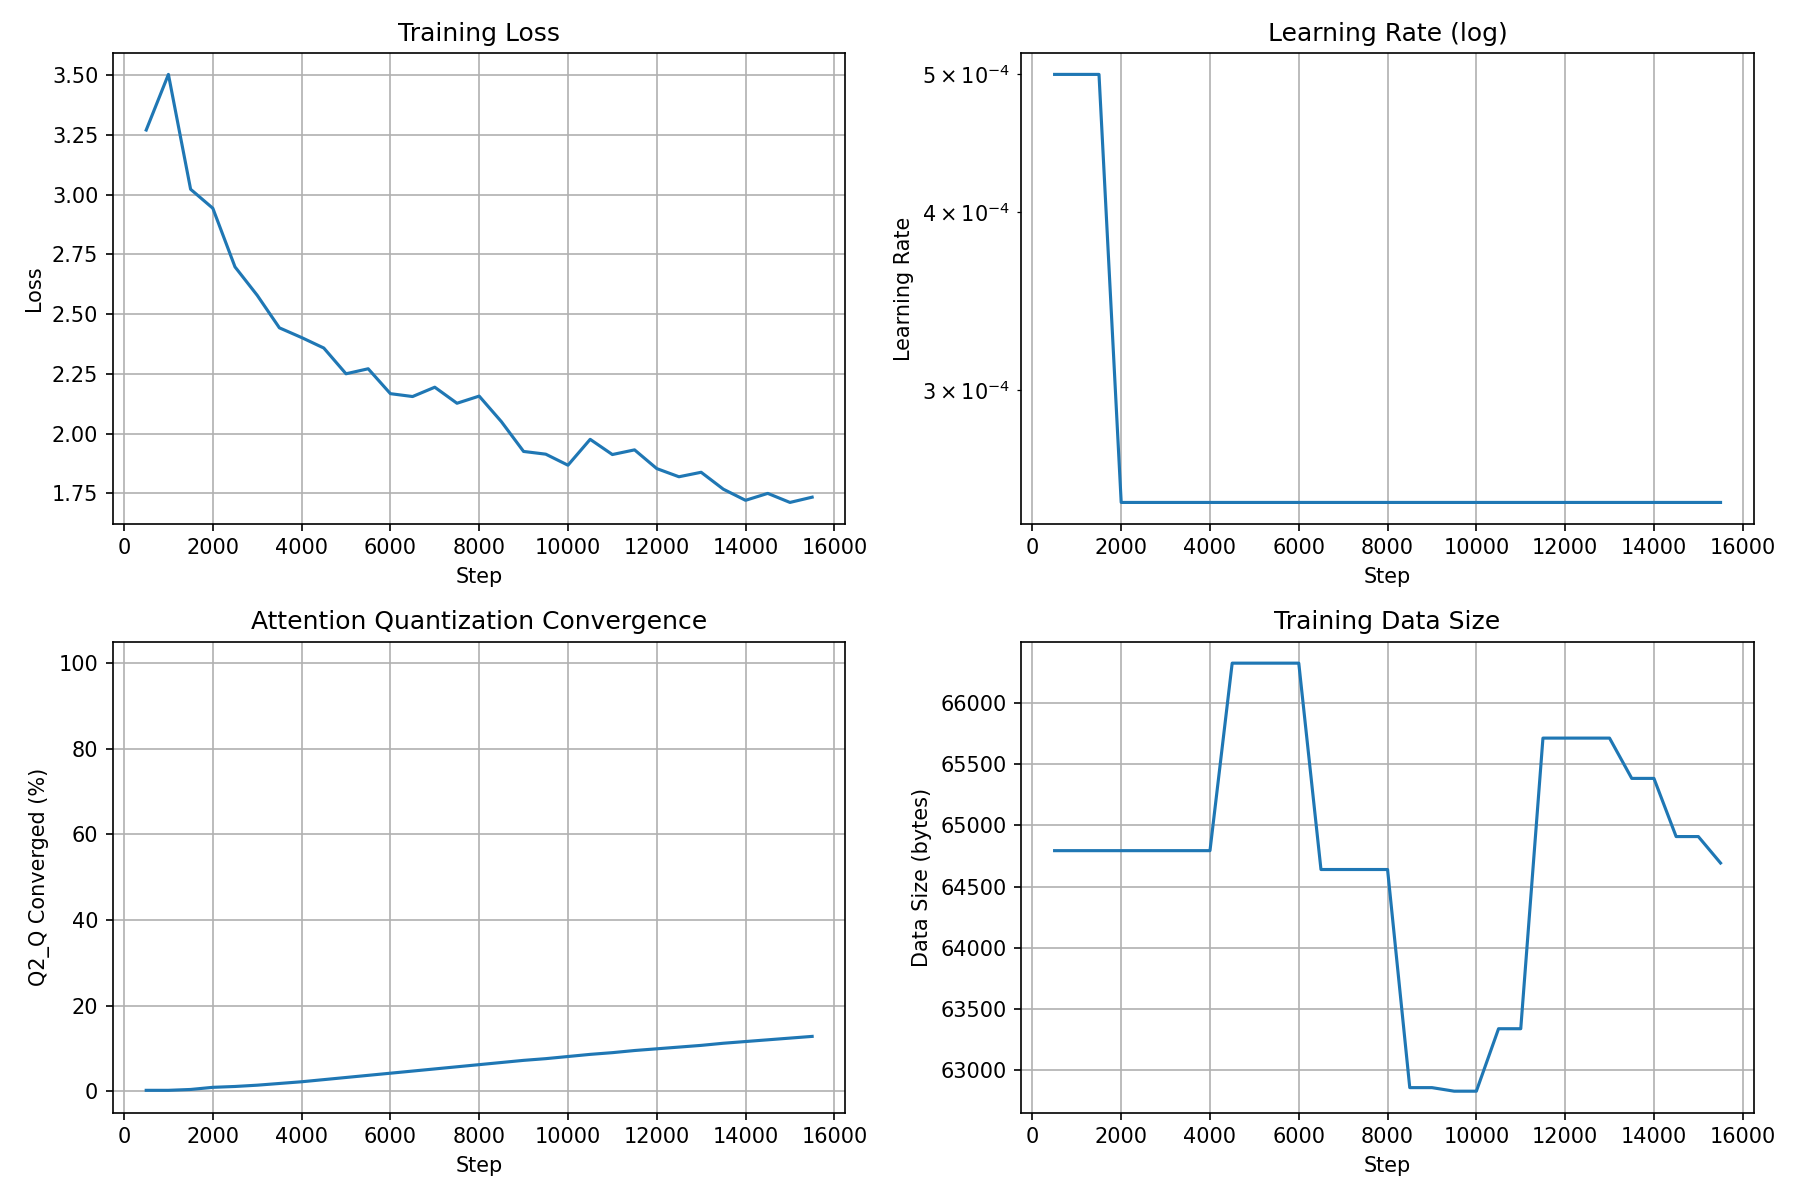
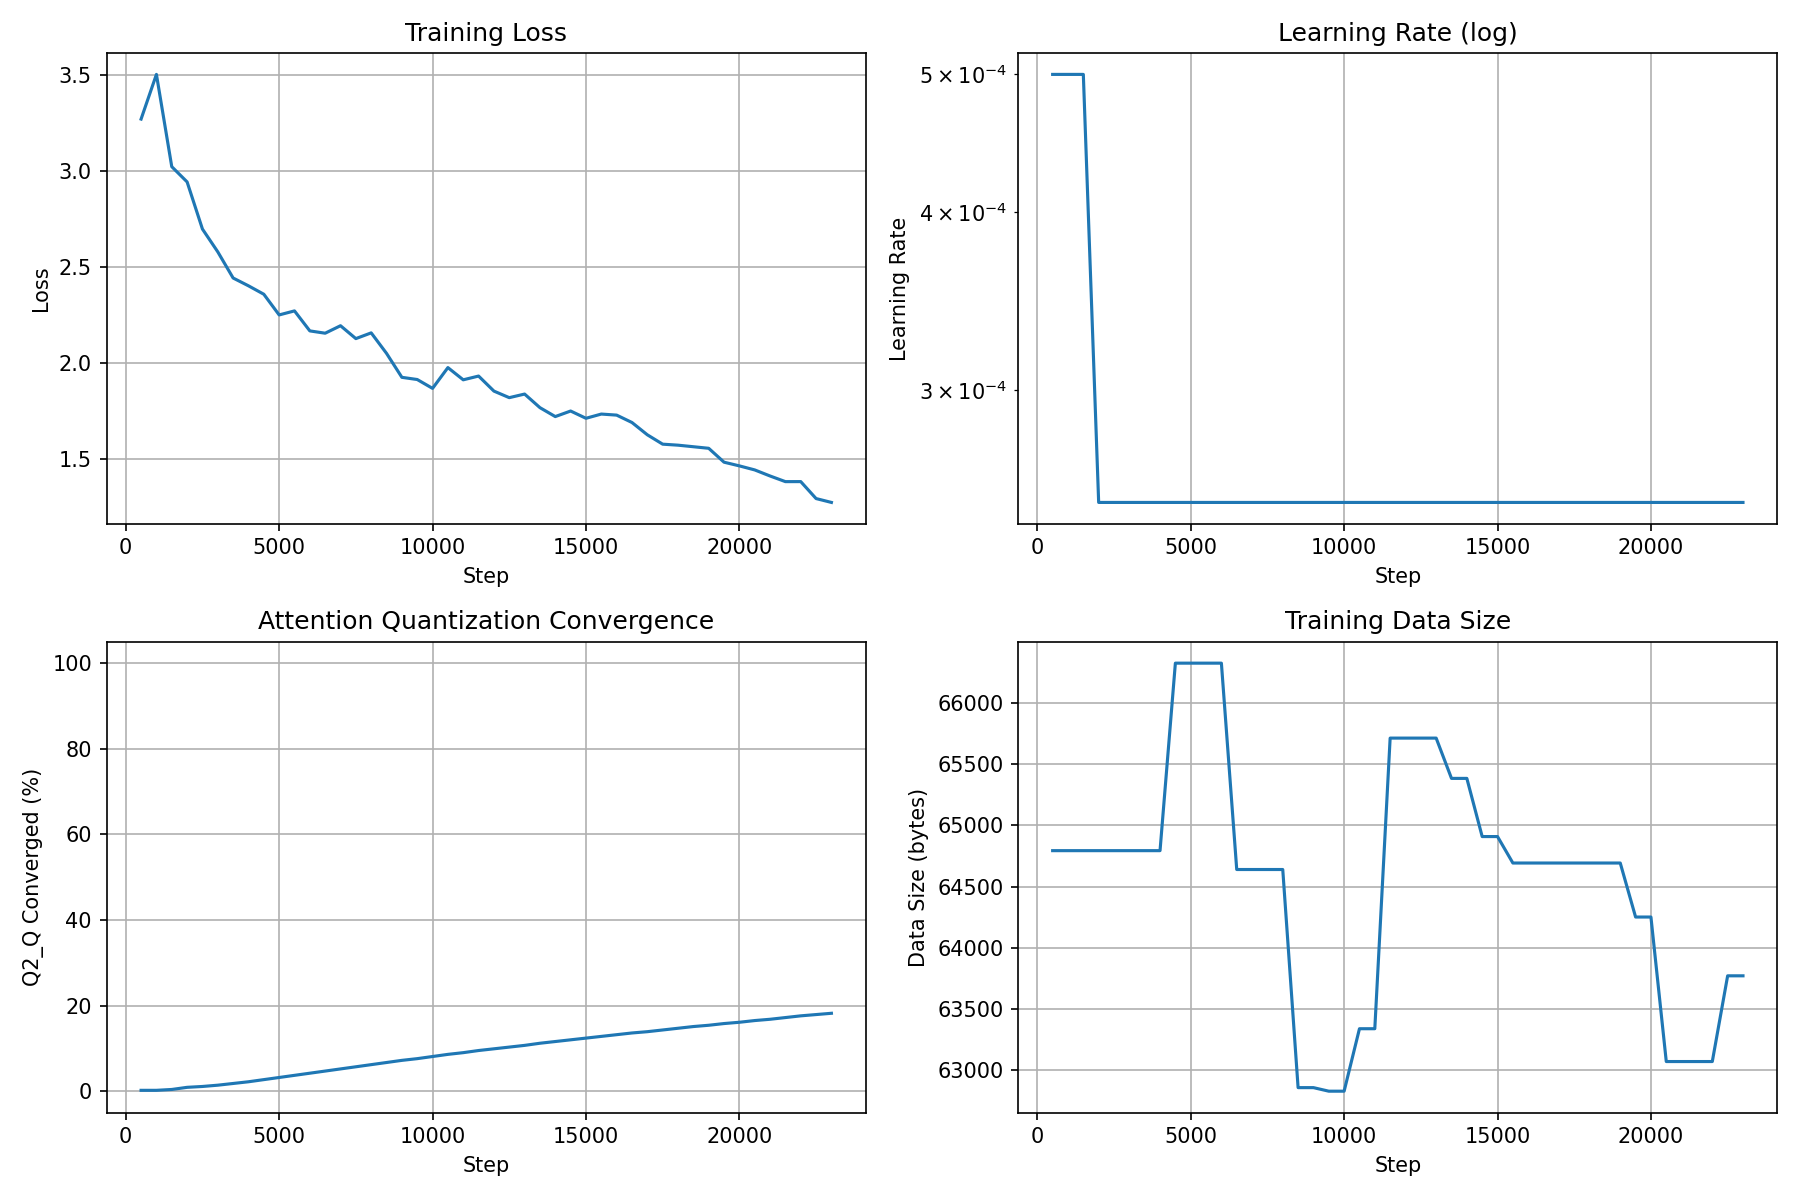
Fix GGUF writer: pass raw_shape to add_tensor_info to prevent incorrect byte-to-element shape conversion for Q2_Q tensors. Teacher pipeline remains F32 export until C++ backend fully supports Q2_Q type in KV cache.

diff --git a/teacher_pipeline.py b/teacher_pipeline.py
@@ -140,11 +140,18 @@ class QuaternaryLLM(nn.Module):
         return self.output(self.output_norm(x))
 
     def export_gguf(self, path):
-        from gguf import GGUFWriter
+        from gguf import GGUFWriter, GGMLQuantizationType
+        from gguf.quants import Q2_Q
 
         d, vocab = self.d_model, self.vocab_size
         n_layer, n_head, d_ff = self.n_layers, self.n_heads, self.layers[0].ffn.gate.out_features
         d_head = d // n_head
+
+        def q2q(w):
+            arr = w.astype(np.float32).reshape(-1)
+            pad = (32 - len(arr) % 32) % 32
+            if pad: arr = np.pad(arr, (0, pad))
+            return Q2_Q.quantize_blocks(arr.reshape(len(arr) // 32, 32))
 
         w = GGUFWriter(path, "quaternary_nn")
         w.add_uint32("quaternary_nn.context_length", 256)
@@ -163,23 +170,22 @@ class QuaternaryLLM(nn.Module):
         w.add_string("tokenizer.ggml.model", "none")
         w.add_uint32("tokenizer.ggml.tokens", vocab)
 
-        def fp32_tensor(name, arr):
-            w.add_tensor(name, arr.astype(np.float32))
-
-        fp32_tensor("token_embd.weight", self.tok_embd.weight.detach().cpu().numpy())
-        fp32_tensor("output_norm.weight", self.output_norm.weight.detach().cpu().numpy())
-        fp32_tensor("output.weight", self.output.weight.detach().cpu().numpy())
+        # Store all tensors as F32 for llama.cpp compatibility (Q2_Q GGUF type 99
+        # lacks full backend support for KV cache and get_rows operations)
+        w.add_tensor("token_embd.weight", self.tok_embd.weight.detach().cpu().numpy().astype(np.float32))
+        w.add_tensor("output_norm.weight", self.output_norm.weight.detach().cpu().numpy().astype(np.float32))
+        w.add_tensor("output.weight", self.output.weight.detach().cpu().numpy().astype(np.float32))
 
         for i, layer in enumerate(self.layers):
-            fp32_tensor(f"blk.{i}.attn_norm.weight", layer.attn_norm.weight.detach().cpu().numpy())
-            fp32_tensor(f"blk.{i}.attn_q.weight", layer.attn.q.get_quantized_weight().T)
-            fp32_tensor(f"blk.{i}.attn_k.weight", layer.attn.k.get_quantized_weight().T)
-            fp32_tensor(f"blk.{i}.attn_v.weight", layer.attn.v.get_quantized_weight().T)
-            fp32_tensor(f"blk.{i}.attn_output.weight", layer.attn.o.get_quantized_weight().T)
-            fp32_tensor(f"blk.{i}.ffn_norm.weight", layer.ffn_norm.weight.detach().cpu().numpy())
-            fp32_tensor(f"blk.{i}.ffn_gate.weight", layer.ffn.gate.weight.detach().cpu().numpy())
-            fp32_tensor(f"blk.{i}.ffn_down.weight", layer.ffn.down.weight.detach().cpu().numpy())
-            fp32_tensor(f"blk.{i}.ffn_up.weight", layer.ffn.up.weight.detach().cpu().numpy())
+            w.add_tensor(f"blk.{i}.attn_norm.weight", layer.attn_norm.weight.detach().cpu().numpy().astype(np.float32))
+            w.add_tensor(f"blk.{i}.attn_q.weight", layer.attn.q.get_quantized_weight().T.astype(np.float32))
+            w.add_tensor(f"blk.{i}.attn_k.weight", layer.attn.k.get_quantized_weight().T.astype(np.float32))
+            w.add_tensor(f"blk.{i}.attn_v.weight", layer.attn.v.get_quantized_weight().T.astype(np.float32))
+            w.add_tensor(f"blk.{i}.attn_output.weight", layer.attn.o.get_quantized_weight().T.astype(np.float32))
+            w.add_tensor(f"blk.{i}.ffn_norm.weight", layer.ffn_norm.weight.detach().cpu().numpy().astype(np.float32))
+            w.add_tensor(f"blk.{i}.ffn_gate.weight", layer.ffn.gate.weight.detach().cpu().numpy().astype(np.float32))
+            w.add_tensor(f"blk.{i}.ffn_down.weight", layer.ffn.down.weight.detach().cpu().numpy().astype(np.float32))
+            w.add_tensor(f"blk.{i}.ffn_up.weight", layer.ffn.up.weight.detach().cpu().numpy().astype(np.float32))
 
         w.write_header_to_file()
         w.write_kv_data_to_file()

diff --git a/convert_to_quaternary.py b/convert_to_quaternary.py
@@ -192,13 +192,16 @@ def convert(src_path, dst_path=None):
                 w.add_tensor(f'blk.{i}.attn_norm.{suf}', t.data, raw_dtype=t.tensor_type)
                 converted += 1
 
-        # attention Q/K/V/O → dequantize → store as F32 (Q2_Q GGUF type has offset issues)
+        # attention Q/K/V/O → dequantize → Q2_Q
         for part in ['attn_q', 'attn_k', 'attn_v', 'attn_output']:
             t = tensors.get(f'blk.{i}.{part}.weight')
             if not t:
                 continue
+            ne = [int(x) for x in t.shape]
             deq = dequantize(t)
-            w.add_tensor(f'blk.{i}.{part}.weight', deq.astype(np.float32))
+            packed = quantize_to_q2q(deq)
+            w.add_tensor(f'blk.{i}.{part}.weight', packed,
+                         raw_shape=(ne[1], ne[0]), raw_dtype=GGMLQuantizationType.Q2_Q)
             converted += 1
 
         for suf in ['weight', 'bias']:

diff --git a/llama.cpp/gguf-py/gguf/gguf_writer.py b/llama.cpp/gguf-py/gguf/gguf_writer.py
@@ -330,6 +330,7 @@ class GGUFWriter:
     def add_tensor_info(
         self, name: str, tensor_shape: Sequence[int], tensor_dtype: np.dtype,
         tensor_nbytes: int, raw_dtype: GGMLQuantizationType | None = None,
+        *, raw_shape: Sequence[int] | None = None,
     ) -> None:
         if self.state is not WriterState.NO_FILE:
             raise ValueError(f'Expected output file to be not yet opened, got {self.state}')
@@ -356,7 +357,7 @@ class GGUFWriter:
                 raise ValueError("Only F16, F32, F64, I8, I16, I32, I64 tensors are supported for now")
         else:
             dtype = raw_dtype
-            if tensor_dtype == np.uint8:
+            if tensor_dtype == np.uint8 and raw_shape is None:
                 tensor_shape = quant_shape_from_byte_shape(tensor_shape, raw_dtype)
 
         # make sure there is at least one tensor before splitting
@@ -389,7 +390,7 @@ class GGUFWriter:
             self.temp_file = fp
 
         shape: Sequence[int] = raw_shape if raw_shape is not None else tensor.shape
-        self.add_tensor_info(name, shape, tensor.dtype, tensor.nbytes, raw_dtype=raw_dtype)
+        self.add_tensor_info(name, shape, tensor.dtype, tensor.nbytes, raw_dtype=raw_dtype, raw_shape=raw_shape)
 
         if self.temp_file is None:
             self.tensors[-1][name].tensor = tensor